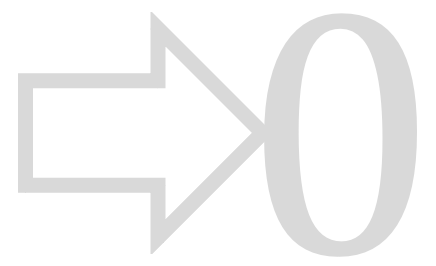
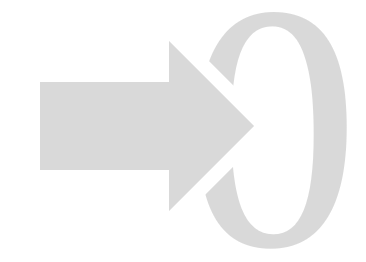
plateau
made debugging view a bit harder to stumble into. Started implementing re-zero feature (not finished).

diff --git a/PlotClass.js b/PlotClass.js
@@ -621,11 +621,28 @@ class PlotIOLab {
         this.smoothSelect.onchange = function () {
             let val = this.options[this.selectedIndex].value;
             plotThis.smoothVal = parseInt(val);
-            console.log("selected smoothing= " + val.toString() + " for sensor "+plotThis.sensorNum.toString());
+            console.log("selected smoothing= " + val.toString() + " for sensor " + plotThis.sensorNum.toString());
             plotThis.processPlotData();
             plotThis.plotStaticData();
             updateSystemState();
         };
+
+        // create a the zeroing button if approrpiate 
+        // place and control the zero icon
+        let aZero = document.createElement("a");
+        var zeroLink = document.createElement("img");
+        zeroLink.src = "images/zero1.png";
+        zeroLink.height = "20";
+        zeroLink.style = "cursor:pointer";
+        zeroLink.style.paddingLeft = "10px";
+        zeroLink.style.verticalAlign = "bottom";
+        aZero.appendChild(zeroLink);
+        aZero.title = "Click & drag to zoom, click to undo, double-click to reset";
+        aZero.addEventListener("click", zeroClick);
+        controls.appendChild(aZero);
+
+        // hide the zero button until its needed
+        aZero.hidden = true;
 
         // Set up the viewport that will be used while the DAQ is running 
         this.runningDataView = new ViewPort(0, this.initialTimeSpan, this.scales[0], this.scales[1], this.baseElement);
@@ -644,8 +661,8 @@ class PlotIOLab {
         ctlLayer.addEventListener("dblclick", dblclick);
 
         // analysis results and highlighting layer
-        let analysisLayer = this.layerElementList[this.layerElementList.length - 2];
-        let analysisDrawContext = analysisLayer.getContext("2d");
+        //let analysisLayer = this.layerElementList[this.layerElementList.length - 2];
+        //let analysisDrawContext = analysisLayer.getContext("2d");
 
         // cursor info layer
         let infoLayer = this.layerElementList[this.layerElementList.length - 3];
@@ -658,6 +675,14 @@ class PlotIOLab {
 
         // =================================================================================
         // IOLabPlot Constructor functions and event handlers
+
+
+        function zeroClick() {
+            if (dbgInfo) {
+                console.log("In zeroClick()");
+            }
+            zeroLink.src = "images/zero0.png";
+        }
 
         // event handler for the layer selection checkboxes
         function selectLayer() {

diff --git a/index.html b/index.html
@@ -2,7 +2,7 @@
 <html lang="en">
 
 <head>
-  <title>IOLab Web v0.8.19</title>
+  <title>IOLab Web v0.8.20</title>
   <meta charset="utf-8">
   <meta name="iolab" content="testing-w-web-serial">
   <meta name="viewport" content="width=device-width, initial-scale=1">
@@ -29,7 +29,7 @@
 <body>
   <header class="header">
     <h1>
-      <label> <span id="iolabWeb" title="Version 0.8.19"> <i><b>iOLabWeb</b></i></span> </label> &nbsp;&nbsp; |
+      <label> <span id="iolabWeb" title="Version 0.8.20"> <i><b>iOLabWeb</b></i></span> </label> &nbsp;&nbsp; |
       &nbsp;&nbsp;
       <label> Dongle: <span id="dongleStatusDisplay" title="Plug in dongle and click on connect button">not connected
         </span> </label> &nbsp;&nbsp; | &nbsp;&nbsp;
@@ -70,7 +70,7 @@
         </td>
         <td>
           <p style="color: rgb(200,200,200); text-align: right; width: 100px; ">
-            expert<input id="debug_ck" type="checkbox" checked="true"
+            <input id="debug_ck" type="checkbox" checked="true"
               title="Displays additional information for experts">
           </p>
         </td>

diff --git a/misc.js b/misc.js
@@ -9,15 +9,22 @@
 function setupControls() {
 
   document.getElementById("debug_ck").addEventListener("click", function () {
-    if (this.checked) {
+    if (this.checked && dbgInfo) {
       document.getElementById('debugStuff').style.display = "block";
       showCommands = true;
     } else {
       document.getElementById('debugStuff').style.display = "none";
       showCommands = false;
+      this.checked = false;
     }
+
     console.log(this.id);
     console.log(this.checked);
+
+    if (!dbgInfo) {
+      console.log("Debug mode is currently disabled.");
+      console.log("Set dbgInfo flag to enable.");
+    }
 
     updateSystemState();
 
@@ -25,7 +32,7 @@ function setupControls() {
 
   // document.getElementById("debugStuff").style.display = "none";
   // document.getElementById("debug_ck").checked = false;
-  
+
   document.getElementById("debugStuff").style.display = "none";
   document.getElementById("debug_ck").checked = false;
   showCommands = false;

diff --git a/style.css b/style.css
@@ -110,6 +110,10 @@ p.inst {
   color: rgb(149, 149, 153);
 }
 
+/* img.center {
+  vertical-align: bottom;
+} */
+
 
 /*====================modal test===================*/
 /* The Modal (background) */

diff --git a/globalVariables.js b/globalVariables.js
@@ -58,6 +58,7 @@ var fixedRunTimerID;
 
 // useful expert tools
 var dbgInfo = false;
+//var dbgInfo = true;
 var showCommands = false;
 var nDebug = 0;
 
